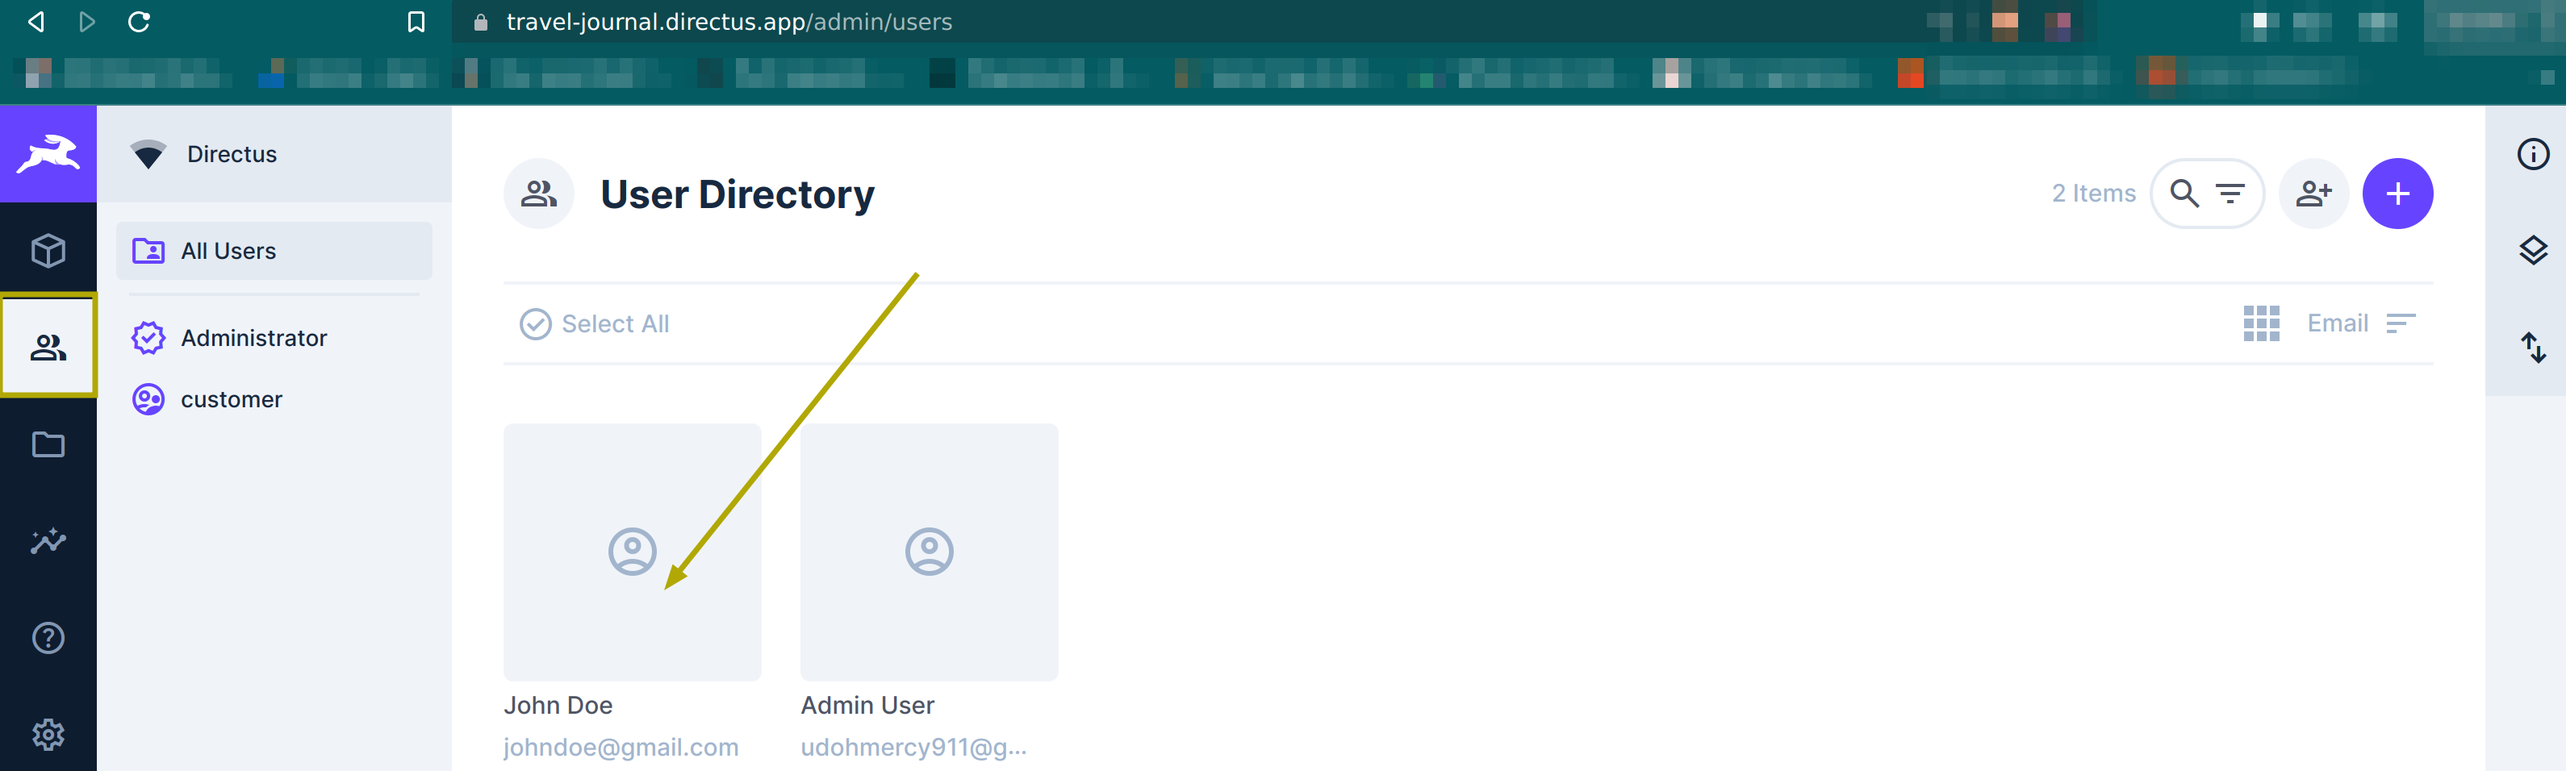
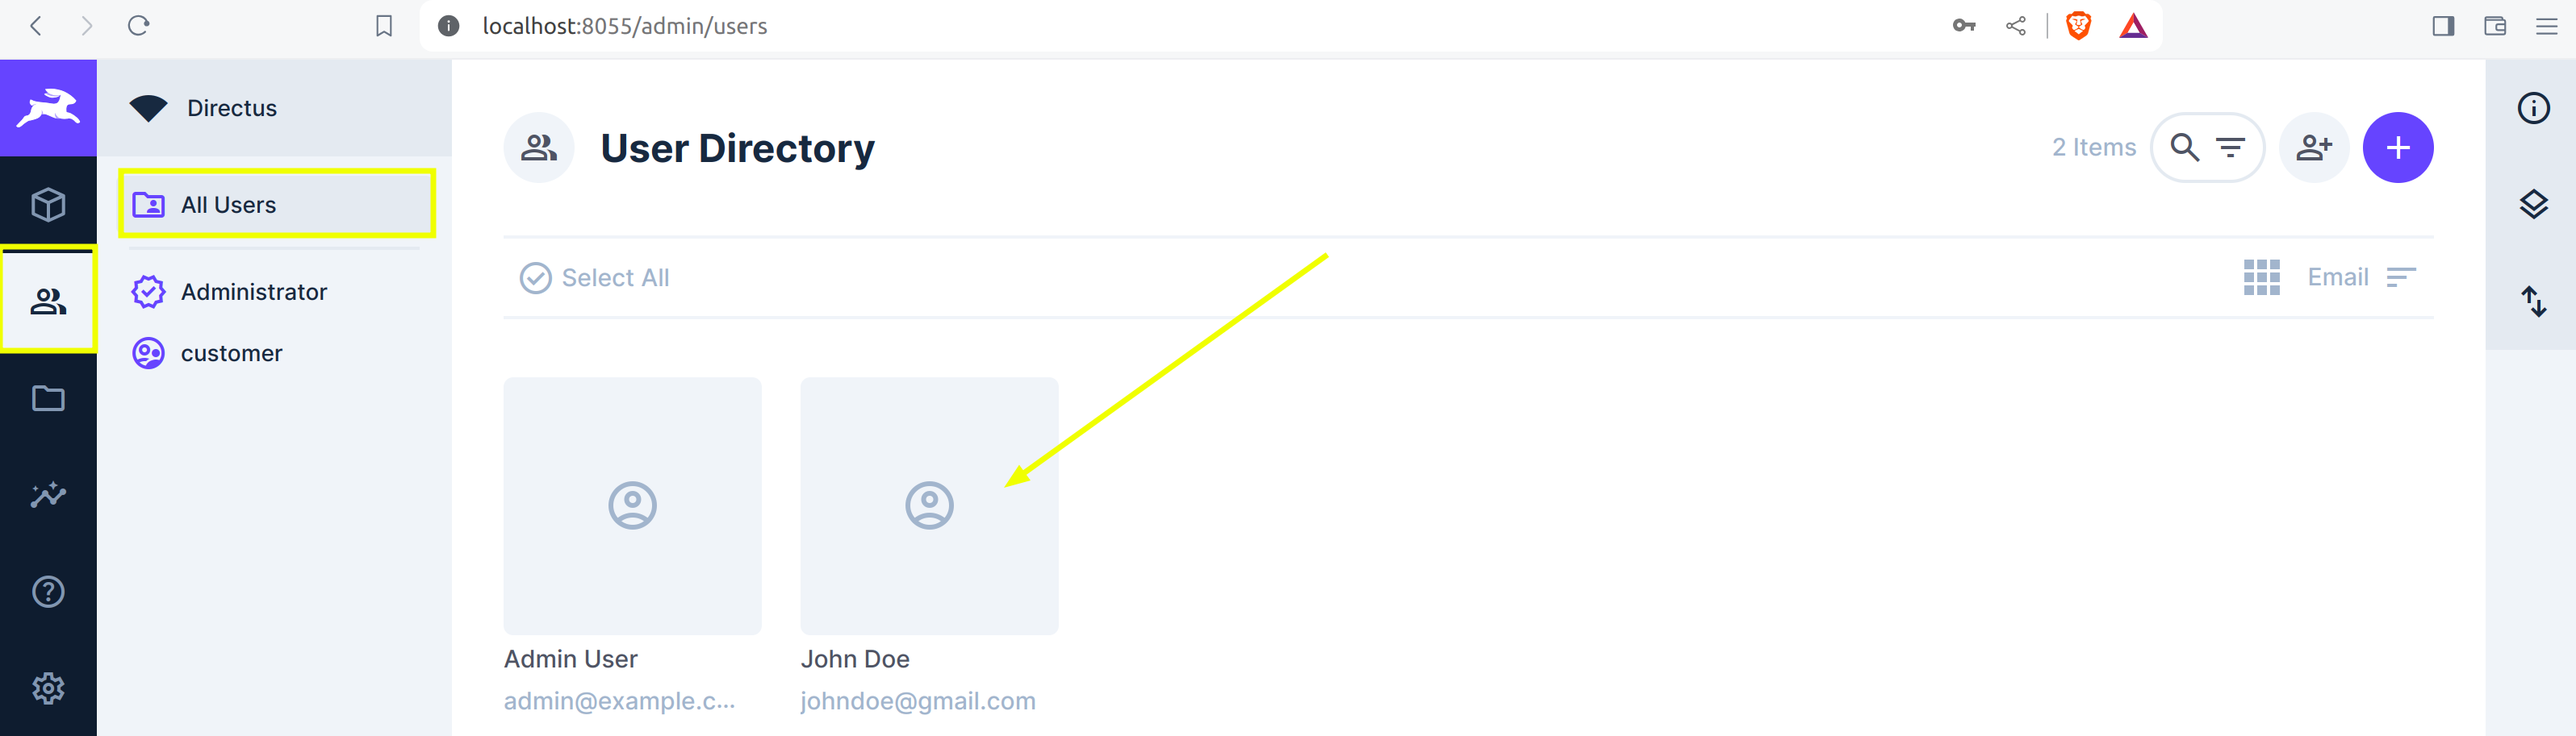
minor

diff --git a/travel-journal/index.md b/travel-journal/index.md
@@ -15,7 +15,7 @@ In this tutorial, you we’ll build a personal travel journal application using 
 You'll need:
 
 - [Node.js](https://nodejs.org/en/) and a code editor installed on your machine.
-- A Directus project created either using [Directus Cloud](https://directus.cloud/) or [run locally on your machine.](https://docs.directus.io/getting-started/quickstart.html)
+- A Directus project created either using [Directus Cloud](https://directus.cloud/) or [run locally on your machine.](https://docs.directus.io/getting-started/quickstart.html). This tutorial on the otherhand uses the Directus SDK via NPM.
 - Some knowledge of the Vue.js Composition API.
 
 ## Creating A Vue.js Project
@@ -60,7 +60,7 @@ In your Directus project, navigate to Settings -> Data Model and create a new co
 Create the following fields with the following types:
 
 - `title`: Input - string (*required*).
-- `description`: Input - textarea (*required*).
+- `description`: Textarea - text (*required*).
 - `photo`: Image - uuid (*required*).
 - `city`: Input - string (*required*).
 - `country`: Input - string (*required*).
@@ -162,9 +162,9 @@ This is the library we will use to interact with the Directus API.
 npm i axios
 ```
 
-Head ove to the `LoginView.vue` view and add the following script:
+Head over to the `LoginView.vue` view and add the following script:
 
-```jsx
+```javascript
 <script setup>
 import { ref } from 'vue';
 import { useRouter } from 'vue-router';
@@ -176,15 +176,14 @@ const password = ref('');
 
 const handleLogin = async () => {
   try {
-    const response = await axios.post('https://travel-journal.directus.app/auth/login', {
+    const response = await axios.post('http://localhost:8055/auth/login', {
       email: email.value,
-      password: password.value
+      password: password.value,
     });
-
     localStorage.setItem('auth_token', response.data.token);
     router.push({ name: 'addjournal' });
   } catch (error) {
-    console.error('Login failed:', error);
+    console.error('Login failed:', error.response ? error.response.data : error);
   }
 };
 </script>
@@ -292,7 +291,7 @@ button:hover {
 
 To configure the signup functionality, add the following script to your `SignupView.vue`:
 
-```jsx
+```javascript
 <script setup>
 import { ref } from 'vue';
 import { useRouter } from 'vue-router';
@@ -307,15 +306,18 @@ const password = ref('');
 
 const handleSignup = async () => {
   try {
-    const response = await axios.post('https://travel-journal.directus.app/users', {
+    const response = await axios.post('http://localhost:8055/users', {
       first_name: firstName.value,
       last_name: lastName.value,
       email: email.value,
       password: password.value,
-      role: '78bf9bb0-fa3c-...',
+      role: "1e0dbd44-279f-4b4a-ac1a-9f03ff19e998",
     });
     console.log('Signup successful:', response.data);
-    router.push({ name: 'addjournal' });
+    if (response.data.token) {
+      localStorage.setItem('userToken', response.data.token);
+      router.push({ name: 'addjournal' });
+    }
   } catch (error) {
     console.error('Signup failed:', error);
   }
@@ -464,7 +466,7 @@ Now that you have successfully integrated a login and signup feature with Direct
 
 First, edit your `Addjournal.vue` view to contain the following script:
 
-```jsx
+```javascript
 <script setup>
 import { ref, watch } from 'vue';
 import axios from 'axios';
@@ -519,7 +521,7 @@ const uploadImageToDirectus = async () => {
   formData.append('file', photo.value);
 
   try {
-    const response = await axios.post('https://travel-journal.directus.app/files', formData, {
+    const response = await axios.post('http://localhost:8055/files', formData, {
       headers: {
         'Content-Type': 'multipart/form-data',
       },
@@ -553,9 +555,9 @@ const handleSubmit = async () => {
 
     let response;
     if (journalId.value) {
-      response = await axios.patch(`https://travel-journal.directus.app/items/journals/${journalId.value}`, journalData);
+      response = await axios.patch(`http://localhost:8055/items/journals/${journalId.value}`, journalData);
     } else {
-      response = await axios.post('https://travel-journal.directus.app/items/journals', journalData);
+      response = await axios.post('http://localhost:8055/items/journals', journalData);
     }
 
     console.log('Journal entry processed:', response.data);
@@ -691,7 +693,7 @@ button:hover {
 
 For viewing journals, add the following script in your `Readjournal.vue` view:
 
-```jsx
+```javascript
 <script setup>
 import { ref, onMounted } from 'vue';
 import axios from 'axios';
@@ -703,7 +705,7 @@ const journals = ref([]);
 
 onMounted(async () => {
   try {
-    const response = await axios.get('https://travel-journal.directus.app/items/journals');
+    const response = await axios.get('http://localhost:8055/items/journals');
     journals.value = response.data.data;
   } catch (error) {
     console.error('Error fetching journals:', error);
@@ -717,7 +719,7 @@ const editJournal = (journal) => {
 
 const deleteJournal = async (journalId) => {
   try {
-    await axios.delete(`https://travel-journal.directus.app/items/journals/${journalId}`);
+    await axios.delete(`http://localhost:8055/${journalId}`);
     journals.value = journals.value.filter(journal => journal.id !== journalId);
   } catch (error) {
     console.error('Error deleting journal:', error);
@@ -725,7 +727,7 @@ const deleteJournal = async (journalId) => {
 };
 
 const getImageUrl = (imageId) => {
-  return `https://travel-journal.directus.app/assets/${imageId}`;
+  return `http://localhost:8055/assets/${imageId}`;
 };
 
 </script>
@@ -764,15 +766,15 @@ And then the following styles:
 ```css
 <style scoped>
 .read-journal-container {
-    display: flex;
-    flex-direction: column;
+  display: flex;
+  flex-direction: column;
 }
   
 .journal-list {
-    display: grid;
-    grid-template-columns: repeat(4, 1fr);
-    gap: 20px; 
-    padding: 20px; 
+  display: grid;
+  grid-template-columns: repeat(4, 1fr);
+  gap: 20px; 
+  padding: 20px; 
 }
 
 @media (max-width: 1200px) {
@@ -794,54 +796,54 @@ And then the following styles:
 }
 
 .card {
-    border: 1px solid #ddd;
-    border-radius: 4px;
-    padding: 15px;
-    box-shadow: 0 2px 4px rgba(0,0,0,0.1);
+  border: 1px solid #ddd;
+  border-radius: 4px;
+  padding: 15px;
+  box-shadow: 0 2px 4px rgba(0,0,0,0.1);
 }
 
 .journal-photo {
-    width: 100px;
-    height: 100px;
-    display: block;
-    margin-bottom: 10px;
+  width: 100px;
+  height: 100px;
+  display: block;
+  margin-bottom: 10px;
 }
 
 .journal-actions {
-    display: flex;
-    justify-content: space-around;
-    margin-top: 10px;
+  display: flex;
+  justify-content: space-around;
+  margin-top: 10px;
 }
   
 .edit-button, .delete-button {
-    border: none;
-    padding: 10px 15px;
-    border-radius: 4px;
-    cursor: pointer;
-    color: white;
-    font-weight: bold;
+  border: none;
+  padding: 10px 15px;
+  border-radius: 4px;
+  cursor: pointer;
+  color: white;
+  font-weight: bold;
 }
 
 .edit-button {
-    background-color: #4CAF50;
+  background-color: #4CAF50;
 }
   
 .delete-button {
-    background-color: #f44336;
+  background-color: #f44336;
 }
   
 .edit-button:hover {
-    background-color: #45a049;
+  background-color: #45a049;
 }
   
 .delete-button:hover {
-    background-color: #d32f2f;
+  background-color: #d32f2f;
 }
 
 .content {
-   margin-bottom: 10px;
-   border: 2px solid black;
-   padding: 10px;
+  margin-bottom: 10px;
+  border: 2px solid black;
+  padding: 10px;
 }
 
 .journal-entry {
@@ -891,13 +893,13 @@ At this point, you can choose to delete a journal if you want too and it will be
 
 Looking ahead, here are some exciting directions you might consider venturing into after completing this tutorial.
 
-### **Add a Session Identifier to Track Journals Created by the Same User**
+### Add a Session Identifier to Track Journals Created by the Same User
 
 Currently, the application does not differentiate between journals created by different users. To enhance user experience and security, you can implement a filtering approach. Here's how:
 
 1. **Filter Journals by User**: When fetching journals, modify the API call to filter journals based on the logged-in user's ID, ensuring users only see their own journals.
 
-### **Allow Users to View Their Existing Journals Before Creating New Ones**
+### Allow Users to View Their Existing Journals Before Creating New Ones
 
 Currently, after a user creates a journal, they have to go through the signup or login process to create another one. To streamline this:
 
